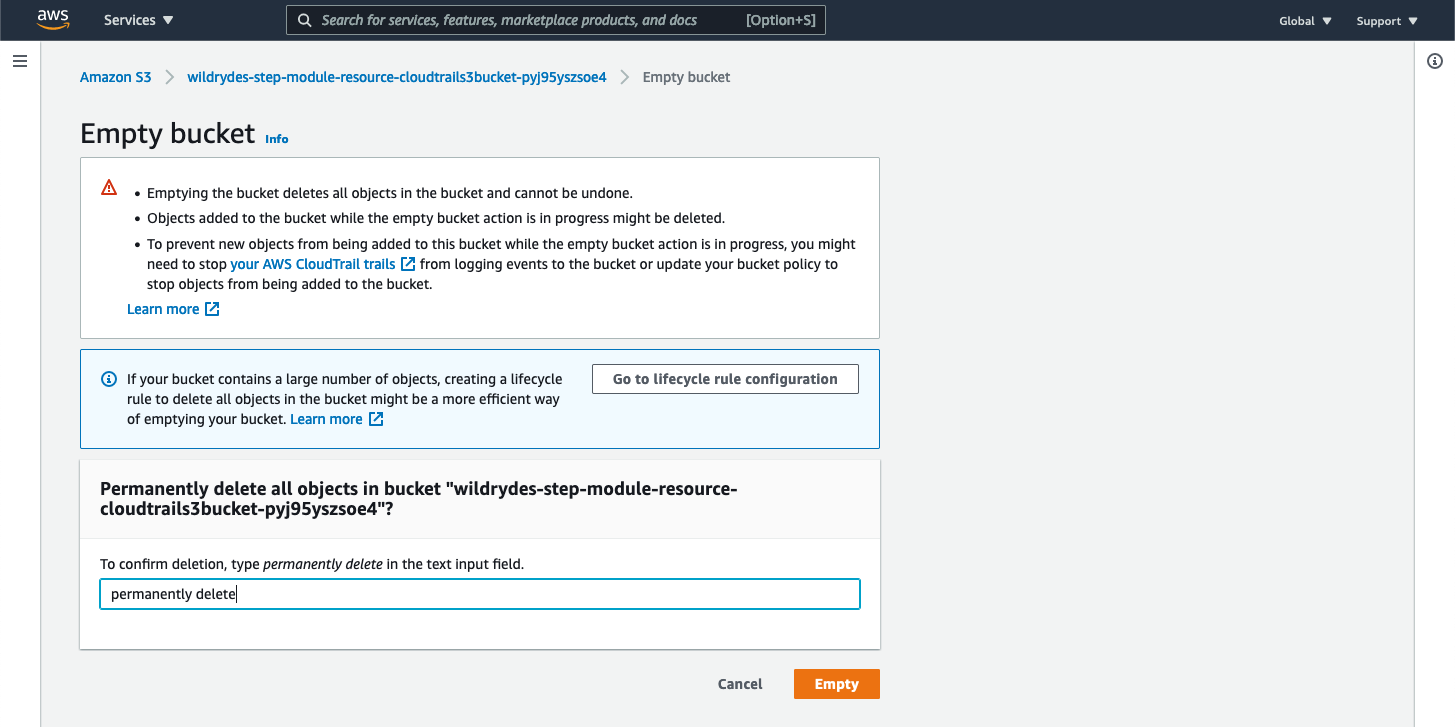
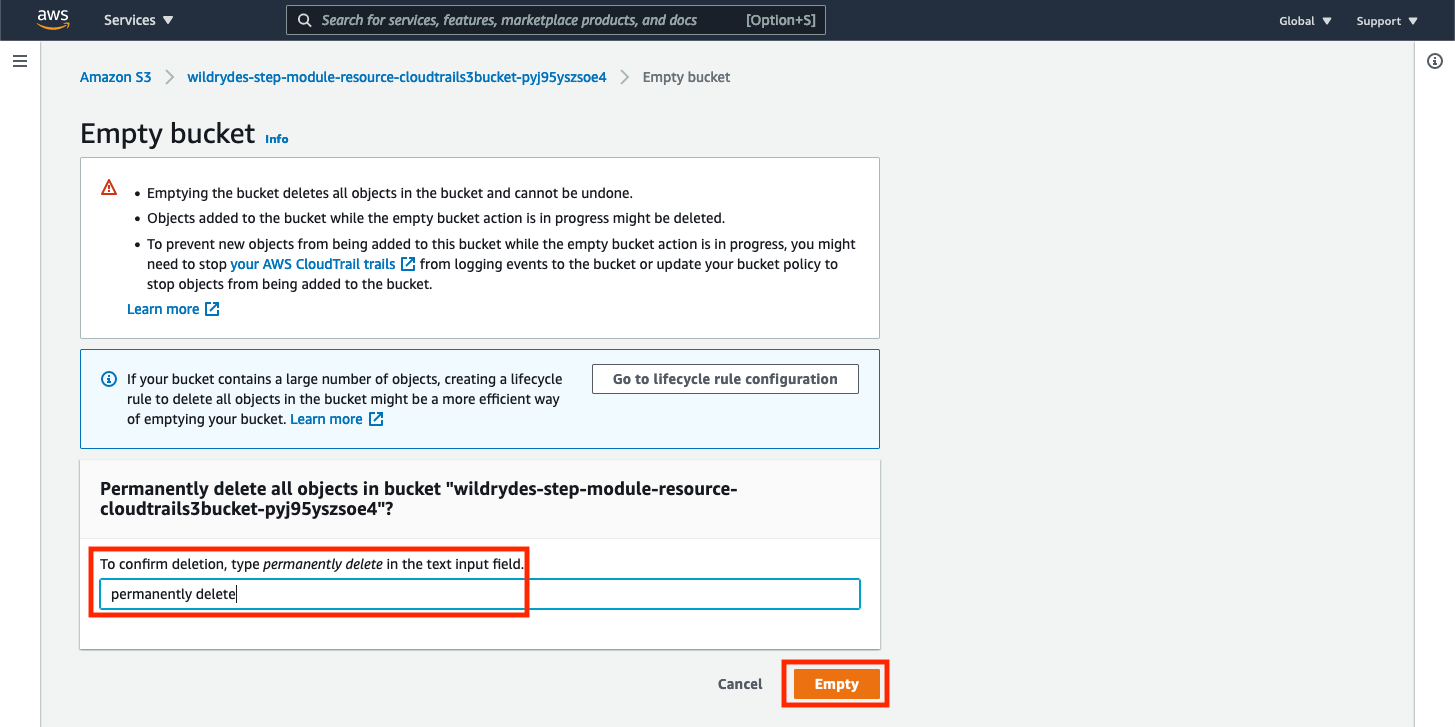
Added bounding boxes to cleanup images

Changed region(s): [[0.0619, 0.7263, 0.3711, 0.8473], [0.5258, 0.9078, 0.6186, 0.9986]]

diff --git a/ImageProcessing/workshop/content/06_cleanup/_index.en.md b/ImageProcessing/workshop/content/06_cleanup/_index.en.md
@@ -55,6 +55,11 @@ You should receive a success message. Click the **Exit** button that appears in 
 
 ➡ Step 6: From the list of CloudFormation stacks, select the `wildrydes-step-module-resources` stack and click the **Delete** button.
 
+{{% notice note %}}
+Our CloudFormation template actually created *2* stacks. One is nested and begins contains `ImageMagick` in the name. Do not delete this stack. It will automatically be deleted.
+{{% /notice %}}
+
+
 {{< figure
 	src="/images/cleanup-step6.png"
 	alt="Step 6"
